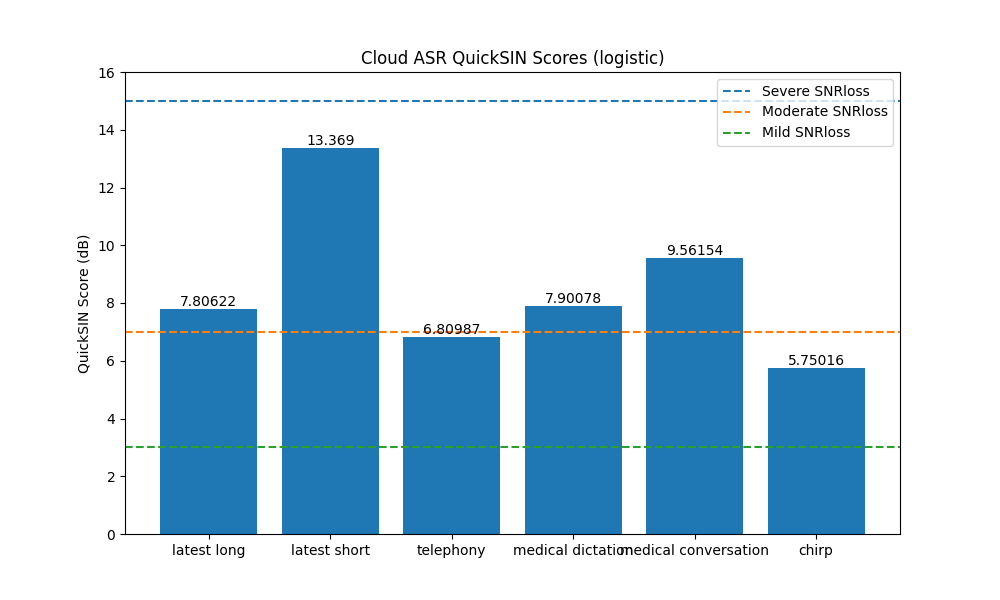
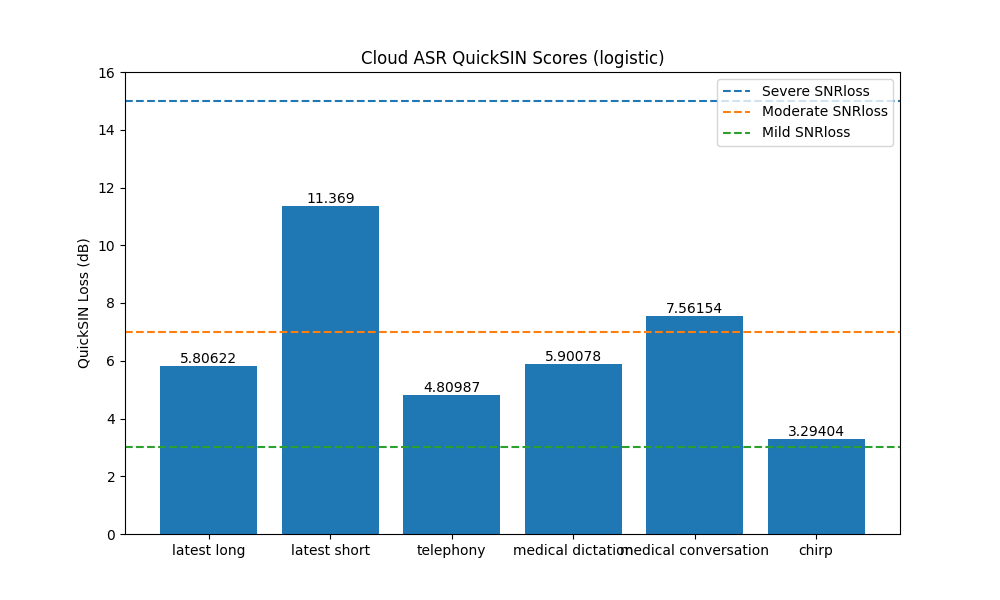
Changed ground truth words to a set.

diff --git a/google_asr_sin.py b/google_asr_sin.py
@@ -1,8 +1,9 @@
 """Test Google Cloud ASR offerings on the Speech in Noise (SPIN) test."""
 
+import datetime
 import json
 import re
-from typing import List, Dict, Optional, Tuple, Union
+from typing import List, Dict, Optional, Set, Tuple, Union
 
 from absl import app
 from absl import flags
@@ -438,17 +439,26 @@ L11 S 4  many ways do these things
 L11 S 5  we like see clear weather
 """.split('\n')
 
-def word_alternatives(words) -> List[str]:
-  """Convert a string with words separated by '/' into a tuple."""
-  if '/' in words:
-    return words.split('/')
-  return [words,]
+homonyms = """
+  tails/tales
+  4/four
+  maire/mare
+""".split('\n')
+# homonyms = [[w.strip() for w in []]]
+
+def word_alternatives(words) -> Set[str]:
+  """Convert a string with words separated by '/' into a set."""
+  return set(words.strip().split('/'))
 
 
 def ingest_spin_keyword_lists(word_list: str) -> Dict[Tuple[int, int],
-                                                      List[List[str]]]:
-  """Convert the text from the big string above into a list of key words 
+                                                      List[Set[str]]]:
+  """Convert the text from the big string above into a set of key words 
   (and alternatives) that describe the expected answers from a SPIN test.
+
+  For each line (which will be entered into a dictionary keyed by list and
+  sentence number) create a list of test words, where each test word is stored 
+  as a list of alternatives in a set.
   """
   keyword_dict = {}
   for line in word_list:
@@ -458,7 +468,7 @@ def ingest_spin_keyword_lists(word_list: str) -> Dict[Tuple[int, int],
     sentence_number = int(line[5:7])
     key_words = line[7:].split(' ')
     key_words = [w for w in key_words if w]
-    key_list = [word_alternatives(w) for w in key_words]
+    key_list = [word_alternatives(w) for w in key_words] # list of sets.
     if len(key_list) != 5:
       print(f'Have too many words in L{list_number} S{sentence_number}:',
             key_list)
@@ -477,7 +487,7 @@ class SpinSentence:
   There are six SPiN sentences per list, one per SNR.
   """
   sentence_words: List[str]
-  true_word_list: List[List[str]]  # List of words and their alternatives
+  true_word_list: List[Set[str]]  # List of words and their alternatives
   # words: list[str]
   start_time: float
   end_time: float
@@ -540,26 +550,38 @@ def print_spin_ground_truth(truth: List[List[SpinSentence]]):
 def save_ground_truth(truth: List[List[SpinSentence]], filename: str):
   """Save the QuickSIN ground truth into a JSON file so we don't have
   to compute it again."""
-  class EnhancedJSONEncoder(json.JSONEncoder):
+  class GoogleSinEncoder(json.JSONEncoder):
     def default(self, o):
       if dataclasses.is_dataclass(o):
         return dataclasses.asdict(o)
+      elif isinstance(o, set):
+        return list(o)
       return super().default(o)
 
+  saved_data = {
+    'ground_truth': truth,
+    'time': str(datetime.datetime.now()),
+  }
   with fsspec.open(filename, 'w') as fp:
-    json.dump(truth, fp, cls=EnhancedJSONEncoder)
+    json.dump(saved_data, fp, cls=GoogleSinEncoder)
 
 
 def load_ground_truth(filename: str) -> List[List[SpinSentence]]:
   """Load the precomputed QuickSIN ground truth from a file."""
   with fsspec.open(filename, 'r') as fp:
-    truth = json.load(fp)
-  print('Loaded ground truth is:', truth)
+    saved_data = json.load(fp)
+  if isinstance(saved_data, dict):
+    truth = saved_data['ground_truth']
+  else:
+    truth = saved_data  # Old format file
+  print('Loaded ground truth is:', saved_data)
   assert isinstance(truth, list)
   for i in range(len(truth)):        # Nominally 12, except during testing
     assert isinstance(truth[i], list)
     for s in range(len(truth[i])):   # Nominally 6, except during testing
       truth[i][s] = SpinSentence(**truth[i][s])
+      truth[i][s].true_word_list = [set(word_list) for word_list
+                                    in truth[i][s].true_word_list]
   return truth
 
 
@@ -686,7 +708,18 @@ def words_in_trial(recognized_words: List[RecogResult],
   return words
 
 
-def score_word_list(true_words: List[List[str]],
+def prettyprint_words_and_alternatives(words_and_alternatives):
+  results = []
+  for w in words_and_alternatives:
+    if isinstance(w, str):
+      results.append(w)
+    elif isinstance(w, (list, set)):
+      results.append('/'.join(list(w)))
+    else:
+      raise ValueError(f'Unexpected type in {words_and_alternatives}')
+  return results
+
+def score_word_list(true_words: List[Set[str]],
                     recognized_words: List[str], max_count=0) -> int:
   """How many of the key words show up in the transcript?
   Args: 
@@ -700,13 +733,24 @@ def score_word_list(true_words: List[List[str]],
     were recognized.
   """
   score = 0
+  missing_words = []
   for words_and_alternates in true_words:
     for word in words_and_alternates:
+      found = False
       if word in recognized_words:
-        score += 1
+        found = True
         break
+    if found:
+      score += 1
+    else:
+      missing_words.append(words_and_alternates)
   if max_count:
     score = min(score, max_count)
+  if missing_words:
+    missing_words = prettyprint_words_and_alternatives(missing_words)
+    #pylint: disable=inconsistent-quotes
+    print(f'Want {", ".join(missing_words)}, '
+          f'from: {", ".join(recognized_words)}')
   return score
 
 def score_all_tests(snrs: List[float],
@@ -791,14 +835,20 @@ def save_model_results(scores: Dict[str, np.ndarray], filename: str):
         return o.tolist()
       return json.JSONEncoder.default(self, o)
 
+  saved_data = {
+    'model_results': scores,
+    'time': str(datetime.datetime.now())
+  }
   with fsspec.open(filename, 'w') as fp:
-    json.dump(scores, fp, cls=NumpyArrayEncoder)
+    json.dump(saved_data, fp, cls=NumpyArrayEncoder)
 
 
 def load_model_results(filename: str) -> Dict[str, np.ndarray]:
   """Load the precomputed QuickSIN results from a file."""
   with fsspec.open(filename, 'r') as fp:
     results = json.load(fp)
+  if 'model_results' in results:
+    results = results['model_results']
   for k in results:
     results[k] = np.asarray(results[k])
   return results
@@ -901,6 +951,8 @@ flags.DEFINE_string('logistic_counting_graph',
                     'results/logistic-counting-comparison.png',
                     'Graph comparing regression vs. counting results')
 flags.DEFINE_boolean('debug', False, 'Produces debugging output.')
+flags.DEFINE_float('human_level', 2.0,
+                   'Normal human performance so we can subtract it (dB)')
 
 
 def main(_):
@@ -921,7 +973,9 @@ def main(_):
   if FLAGS.all_score_graph:
     plt.clf()
     for m in model_frac_scores:
-      plt.plot(spin_snrs, model_frac_scores[m], label=m)
+      plt.plot(spin_snrs,
+               model_frac_scores[m],
+               label=m)
     plt.xlabel('SNR (dB)')
     plt.ylabel('Fraction of words recognized correctly')
     plt.legend()
@@ -930,15 +984,14 @@ def main(_):
   spin_loss = {}
   for m in model_frac_scores:
     spin_loss[m] = find_spin_loss(spin_snrs,
-                                  model_frac_scores[m])
+                                  model_frac_scores[m]) - FLAGS.human_level
 
   if FLAGS.spin_logistic_graph:
     fig = plt.figure(figsize=(10, 6))
     ax = fig.add_subplot(111)
     bar_labels = [s.replace('_', ' ') for s in spin_loss]
-    bar_container = ax.bar(bar_labels,
-                           spin_loss.values())
-    ax.set(ylabel='QuickSIN Score (dB)',
+    bar_container = ax.bar(bar_labels, spin_loss.values())
+    ax.set(ylabel='QuickSIN Loss (dB)',
            title='Cloud ASR QuickSIN Scores (logistic)', ylim=(0, 16))
     ax.bar_label(bar_container)
     a = plt.axis()
@@ -954,15 +1007,17 @@ def main(_):
     # if m == 'latest_short': continue
     # Translate fraction correct into the average number of correct
     # words per SNR across all lists.
-    quicksin_counting_scores[m] = 25.5 - 5 * np.sum(model_frac_scores[m])
+    quicksin_counting_scores[m] = (25.5 - 5 * np.sum(model_frac_scores[m]) -
+                                   FLAGS.human_level)
 
   if FLAGS.spin_counting_graph:
     fig = plt.figure(figsize=(10, 6))
     ax = fig.add_subplot(111)
     bar_labels = [s.replace('_', ' ') for s in quicksin_counting_scores]
-    bar_container = ax.bar(bar_labels,
-                           quicksin_counting_scores.values())
-    ax.set(ylabel='QuickSIN Score (dB)',
+    bar_container = ax.bar(
+      bar_labels,
+      quicksin_counting_scores.values())
+    ax.set(ylabel='QuickSIN Loss (dB)',
            title='Cloud ASR QuickSIN Scores (counting)', ylim=(0, 16))
     ax.bar_label(bar_container)
     a = plt.axis()

diff --git a/google_asr_sin_test.py b/google_asr_sin_test.py
@@ -162,12 +162,12 @@ class GoogleRecognizerTest(absltest.TestCase):
     self.assertGreaterEqual(end_times[-1], 2.8)
 
   def test_spin_targets(self):
-    self.assertEqual(gasr.word_alternatives('foo'), ['foo',])
-    self.assertEqual(gasr.word_alternatives('foo/bar'), ['foo', 'bar'])
+    self.assertEqual(gasr.word_alternatives('foo'), set(['foo',]))
+    self.assertEqual(gasr.word_alternatives('foo/bar'), set(['foo', 'bar']))
 
     self.assertEqual(gasr.all_keyword_dict[1, 0],
-                     [['tear', 'tara'], ['thin'], ['sheet'],
-                      ['yellow'], ['pad']])
+                     [set(['tear', 'tara']), set(['thin']), set(['sheet']),
+                      set(['yellow']), set(['pad'])])
 
   def test_file_sort(self):
     files = ['foo 12.wav', 'foo 7.wav', 'foo 3.wav']
@@ -201,8 +201,9 @@ class GoogleRecognizerTest(absltest.TestCase):
     self.assertEqual(matches, list(range(1, 13)))
 
   def test_spin_files(self):
-    score = gasr.score_word_list([['white', 'black'], ['silk'], ['jacket'],
-                                  ['goes'], ['with'], ['any'], ['shoes']],
+    score = gasr.score_word_list([set(['white', 'black']), set(['silk']),
+                                  set(['jacket']), set(['goes']), set(['with']),
+                                  set(['any']), set(['shoes'])],
                                  ['a', 'black', 'silk', 'jacket'])
     self.assertEqual(score, 3)
 
@@ -274,7 +275,7 @@ class GoogleRecognizerTest(absltest.TestCase):
                               f'Truth list {li}, sentence {si} is not a '
                               f'SpinSentence but a {type(s)}')
 
-    json_file = 'truth_test.json'
+    json_file = '/tmp/truth_test.json'
     gasr.save_ground_truth(truths, json_file)
 
     new_truths = gasr.load_ground_truth(json_file)
@@ -282,7 +283,7 @@ class GoogleRecognizerTest(absltest.TestCase):
 
   def test_model_results_save(self):
     test_scores = {'1': np.arange(3), '2': np.arange(1,3)}
-    json_file = 'model_results_test.json'
+    json_file = '/tmp/model_results_test.json'
     gasr.save_model_results(test_scores, json_file)
 
     new_scores = gasr.load_model_results(json_file)
